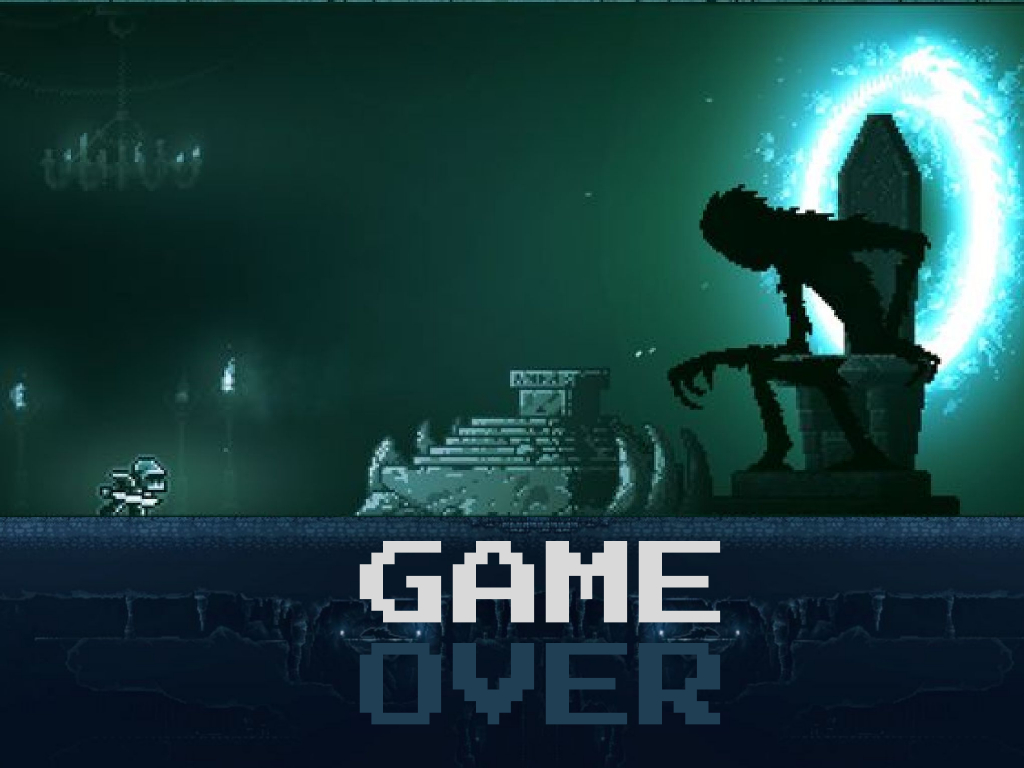
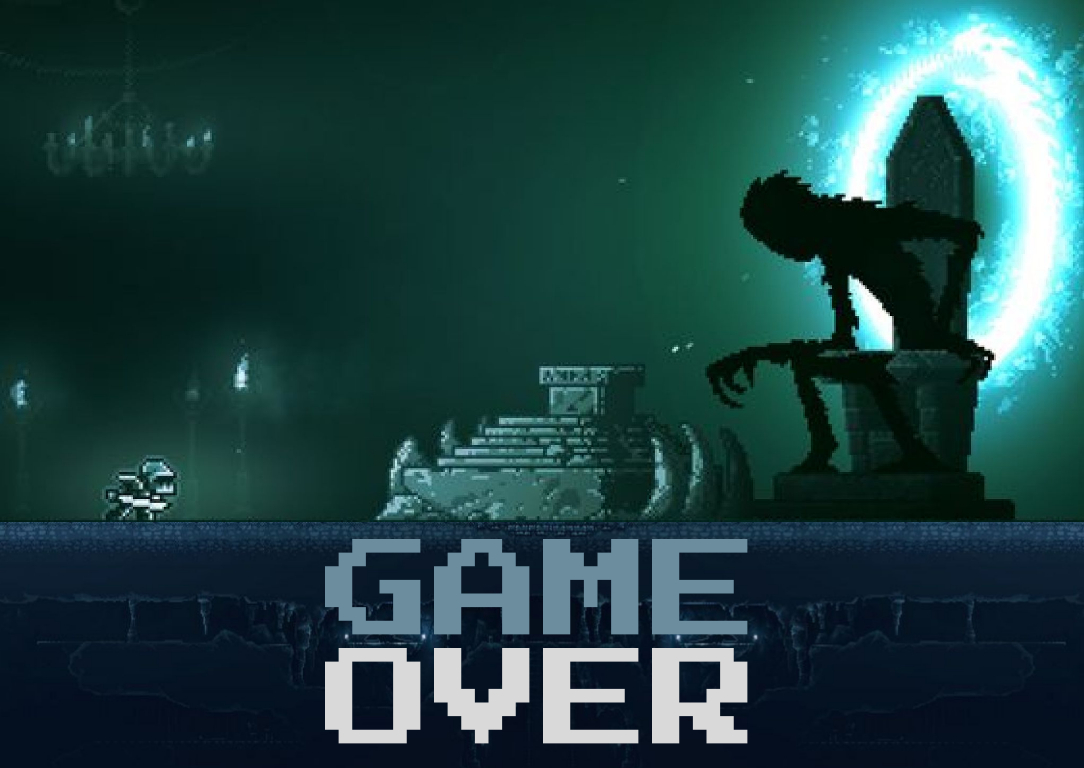
changed game-over background

diff --git a/src/main/resources/game-over.css b/src/main/resources/game-over.css
@@ -3,7 +3,7 @@
     }
 
     #buttons {
-        -fx-background-color: #05201A;
+        -fx-background-color: #081828;
         -fx-opacity: .7;
         -fx-background-size: 300px 35px;
         -fx-pref-width: 300px;
